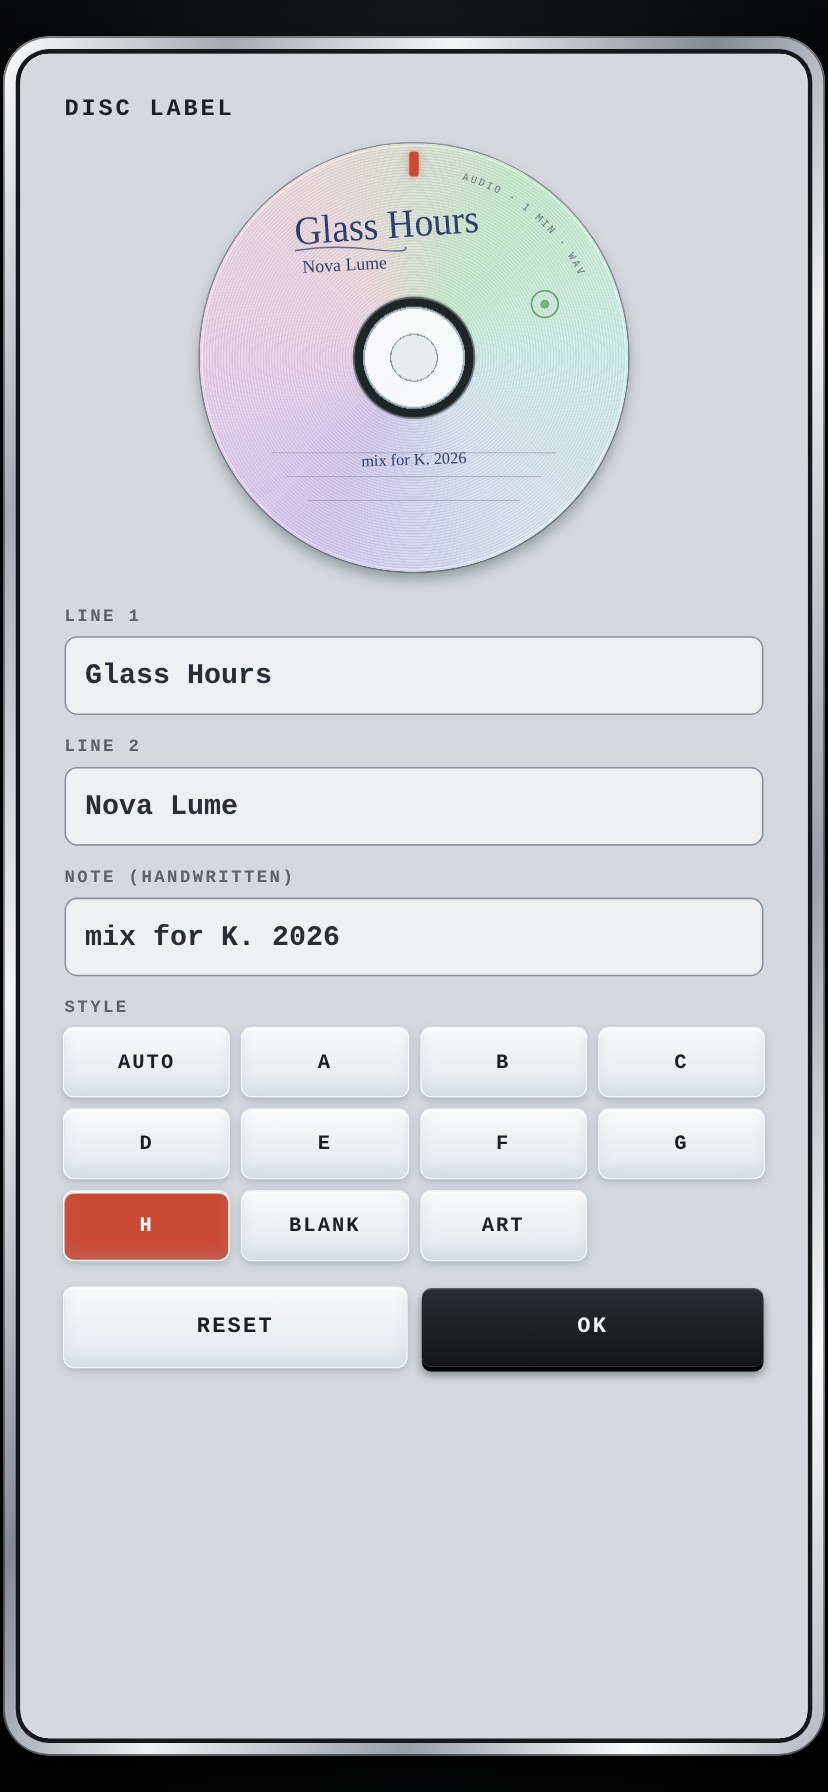
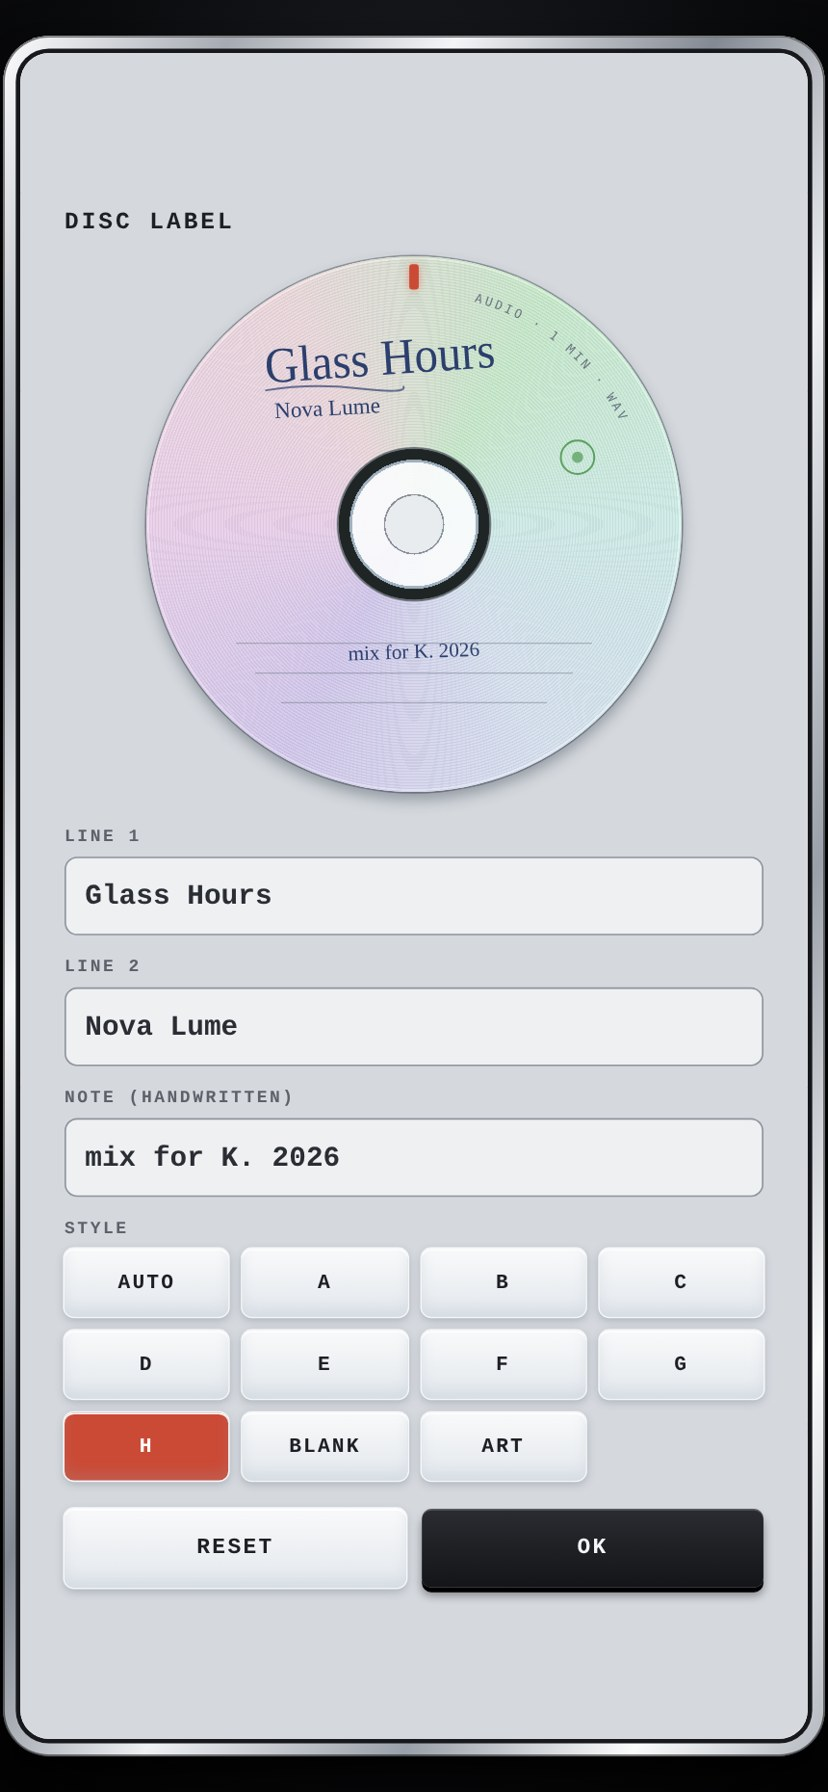
Add files via upload

diff --git a/index.html b/index.html
@@ -217,7 +217,7 @@ svg polyline{stroke:var(--ink)}
 #lib{padding:26px 24px 20px}
 #lbed{display:none;position:absolute;inset:0;z-index:5;background:#d5d9de;padding:28px 28px 24px;flex-direction:column;gap:12px;overflow:auto}
 #lib.ed #lbed{display:flex}
-#lbed .pv{position:relative;width:272px;height:272px;margin:2px auto 8px;border-radius:50%;box-shadow:0 5px 9px rgba(40,50,62,.38),0 0 0 1px #8f959e,inset 0 0 0 2px rgba(255,255,255,.8);flex:0 0 auto}
+#lbed .pv{position:relative;width:340px;height:340px;margin:2px auto 8px;border-radius:50%;box-shadow:0 5px 9px rgba(40,50,62,.38),0 0 0 1px #8f959e,inset 0 0 0 2px rgba(255,255,255,.8);flex:0 0 auto}
 #lbed .pv .cdrot{animation:none}
 #lbed .pv .cdhole{position:absolute;inset:36%;border-radius:50%;background:radial-gradient(circle closest-side,#e9ecef 0 38%,rgba(105,113,123,.7) 38% 40%,rgba(250,251,252,.92) 40% 82%,#9eb0bf 82% 85.5%,#1f2524 85.5% 100%);box-shadow:0 0 0 1px #6b727b}
 #lbed label{font:800 11px/1 var(--mono);letter-spacing:.14em;color:#5f616a;display:block;margin:4px 0 6px}
@@ -226,17 +226,19 @@ svg polyline{stroke:var(--ink)}
 #lbed .tp .lb,#lbed .ac .lb{padding:15px 6px;font-size:13px;border-radius:6px}
 #lbed .lb.on{background:#cb4a36;color:#fff}
 #lbed .tp .lb,#lbed .ac .lb{text-align:center}
-#lbed .rc{display:flex;flex-direction:column;gap:12px}
+#lbed .rc,#lbed .fl{display:flex;flex-direction:column;gap:12px}
+#lbed::before,#lbed::after{content:"";flex:1 0 0}   /* centre the whole editor; the spacers collapse when it is tall */
 #lbed .ac{display:grid;grid-template-columns:1fr 1fr;gap:10px;margin-top:6px}
 #lbed .ac .lb{padding:18px 6px;font-size:14px}
-html.land #lbed{display:none;grid-template-columns:230px 1fr 1fr;grid-auto-rows:min-content;column-gap:22px;row-gap:10px;padding:18px 24px;align-content:start;overflow:auto}
-html.land #lib.ed #lbed{display:grid}
-html.land #lbed>.lt{grid-column:1;grid-row:1}
-html.land #lbed>.pv{grid-column:1;grid-row:2 / span 6;width:230px;height:230px;margin:0}
-html.land #lbed>div:nth-child(n+3):nth-child(-n+5){grid-column:2}
-html.land #lbed>.rc{grid-column:3;grid-row:1 / span 3;align-self:start}
+html.land #lbed{display:none;flex-direction:row;align-items:center;justify-content:center;gap:22px;padding:14px 24px;overflow:auto}
+html.land #lib.ed #lbed{display:flex}
+html.land #lbed::before,html.land #lbed::after{display:none}
+html.land #lbed>.lt{position:absolute;left:24px;top:14px}
+html.land #lbed>.pv{width:290px;height:290px;margin:0;flex:0 0 auto}
+html.land #lbed>.fl,html.land #lbed>.rc{flex:1 1 0;min-width:0}
 html.land #lbed input{padding:10px 12px}
-html.land #lbed .tp .lb{padding:12px 4px}
+html.land #lbed .tp{gap:7px}
+html.land #lbed .tp .lb{padding:12px 2px;font-size:12px;letter-spacing:.06em}
 html.land #lbed .ac .lb{padding:14px 6px}
 #lib .lk{display:none;flex:0 0 auto;margin-top:10px;padding-top:10px;border-top:1px solid #8d939c}
 #lib.keys .lk{display:block}
@@ -2123,7 +2125,7 @@ hit.addEventListener('pointercancel', () => { wdrag = false; clearTimeout(bpmTo)
 /* ================= library sheet ================= */
 const libEl = el('', chassis, ''); libEl.id = 'lib';
 libEl.innerHTML = '<div class="lh"><div class="lt">LIBRARY</div><div class="lb" data-a="add">ADD</div><div class="lb" data-a="goto">#</div><div class="lb" data-a="label">LABEL</div><div class="lb" data-a="demo">DEMO</div><div class="lb" data-a="clear">CLEAR</div><div class="lb done" data-a="done">DONE</div></div><div class="ll"></div><div class="lk"><div class="lkd">TRACK --</div><div class="lkp"><div class="lb" data-a="k1">1</div><div class="lb" data-a="k2">2</div><div class="lb" data-a="k3">3</div><div class="lb" data-a="k4">4</div><div class="lb" data-a="k5">5</div><div class="lb" data-a="k6">6</div><div class="lb" data-a="k7">7</div><div class="lb" data-a="k8">8</div><div class="lb" data-a="k9">9</div><div class="lb" data-a="kc">C</div><div class="lb" data-a="k0">0</div><div class="lb done" data-a="kgo">GO</div></div></div>';
-libEl.insertAdjacentHTML('beforeend','<div id="lbed"><div class="lt">DISC LABEL</div><div class="pv"><div class="cdrot"><svg class="lbl" viewBox="0 0 288 288"></svg></div><div class="cdhole"></div></div><div><label>LINE 1</label><input data-f="a" maxlength="60" autocomplete="off"></div><div><label>LINE 2</label><input data-f="b" maxlength="40" autocomplete="off"></div><div><label>NOTE (HANDWRITTEN)</label><input data-f="n" maxlength="40" autocomplete="off"></div><div class="rc"><div><label>STYLE</label><div class="tp"><div class="lb" data-t="-1">AUTO</div><div class="lb" data-t="0">A</div><div class="lb" data-t="1">B</div><div class="lb" data-t="2">C</div><div class="lb" data-t="3">D</div><div class="lb" data-t="4">E</div><div class="lb" data-t="5">F</div><div class="lb" data-t="6">G</div><div class="lb" data-t="7">H</div><div class="lb" data-t="8">BLANK</div><div class="lb" data-t="9">ART</div></div></div><div class="ac"><div class="lb" data-a="lreset">RESET</div><div class="lb done" data-a="ldone">OK</div></div></div></div>');
+libEl.insertAdjacentHTML('beforeend','<div id="lbed"><div class="lt">DISC LABEL</div><div class="pv"><div class="cdrot"><svg class="lbl" viewBox="0 0 288 288"></svg></div><div class="cdhole"></div></div><div class="fl"><div><label>LINE 1</label><input data-f="a" maxlength="60" autocomplete="off"></div><div><label>LINE 2</label><input data-f="b" maxlength="40" autocomplete="off"></div><div><label>NOTE (HANDWRITTEN)</label><input data-f="n" maxlength="40" autocomplete="off"></div></div><div class="rc"><div><label>STYLE</label><div class="tp"><div class="lb" data-t="-1">AUTO</div><div class="lb" data-t="0">A</div><div class="lb" data-t="1">B</div><div class="lb" data-t="2">C</div><div class="lb" data-t="3">D</div><div class="lb" data-t="4">E</div><div class="lb" data-t="5">F</div><div class="lb" data-t="6">G</div><div class="lb" data-t="7">H</div><div class="lb" data-t="8">BLANK</div><div class="lb" data-t="9">ART</div></div></div><div class="ac"><div class="lb" data-a="lreset">RESET</div><div class="lb done" data-a="ldone">OK</div></div></div></div>');
 const lbed = libEl.querySelector('#lbed'), lbPv = lbed.querySelector('svg.lbl'), lbPvRot = lbed.querySelector('.cdrot');
 let lbTrack = null;
 function lbPaint() {

diff --git a/sw.js b/sw.js
@@ -1,5 +1,5 @@
 /* IRIDESCENT: tiny offline cache. Put next to index.html. */
-const C = 'iridescent-1.0.13';
+const C = 'iridescent-1.0.14';
 self.addEventListener('install', e => { e.waitUntil(caches.open(C).then(c => c.addAll(['./', './index.html', './manifest.webmanifest', './icons/icon-180.png', './icons/icon-512.png', './icons/icon-32.png'])).then(() => self.skipWaiting())); });
 self.addEventListener('activate', e => { e.waitUntil(caches.keys().then(ks => Promise.all(ks.filter(k => k !== C).map(k => caches.delete(k)))).then(() => self.clients.claim())); });
 self.addEventListener('fetch', e => {

diff --git a/CHANGELOG.md b/CHANGELOG.md
@@ -1,5 +1,9 @@
 # Changelog
 
+## 1.0.14
+
+- Label editor: a bigger disc (340 px in portrait, 290 px in landscape) and the whole layout sits in the middle of the screen instead of hugging the top. In landscape the fields and styles are two columns next to the disc.
+
 ## 1.0.13
 
 - The CRUSH and FILTER switches have a taller invisible touch area (46 pt tall on a 390 pt wide phone, was about 34 pt). The look is unchanged.
